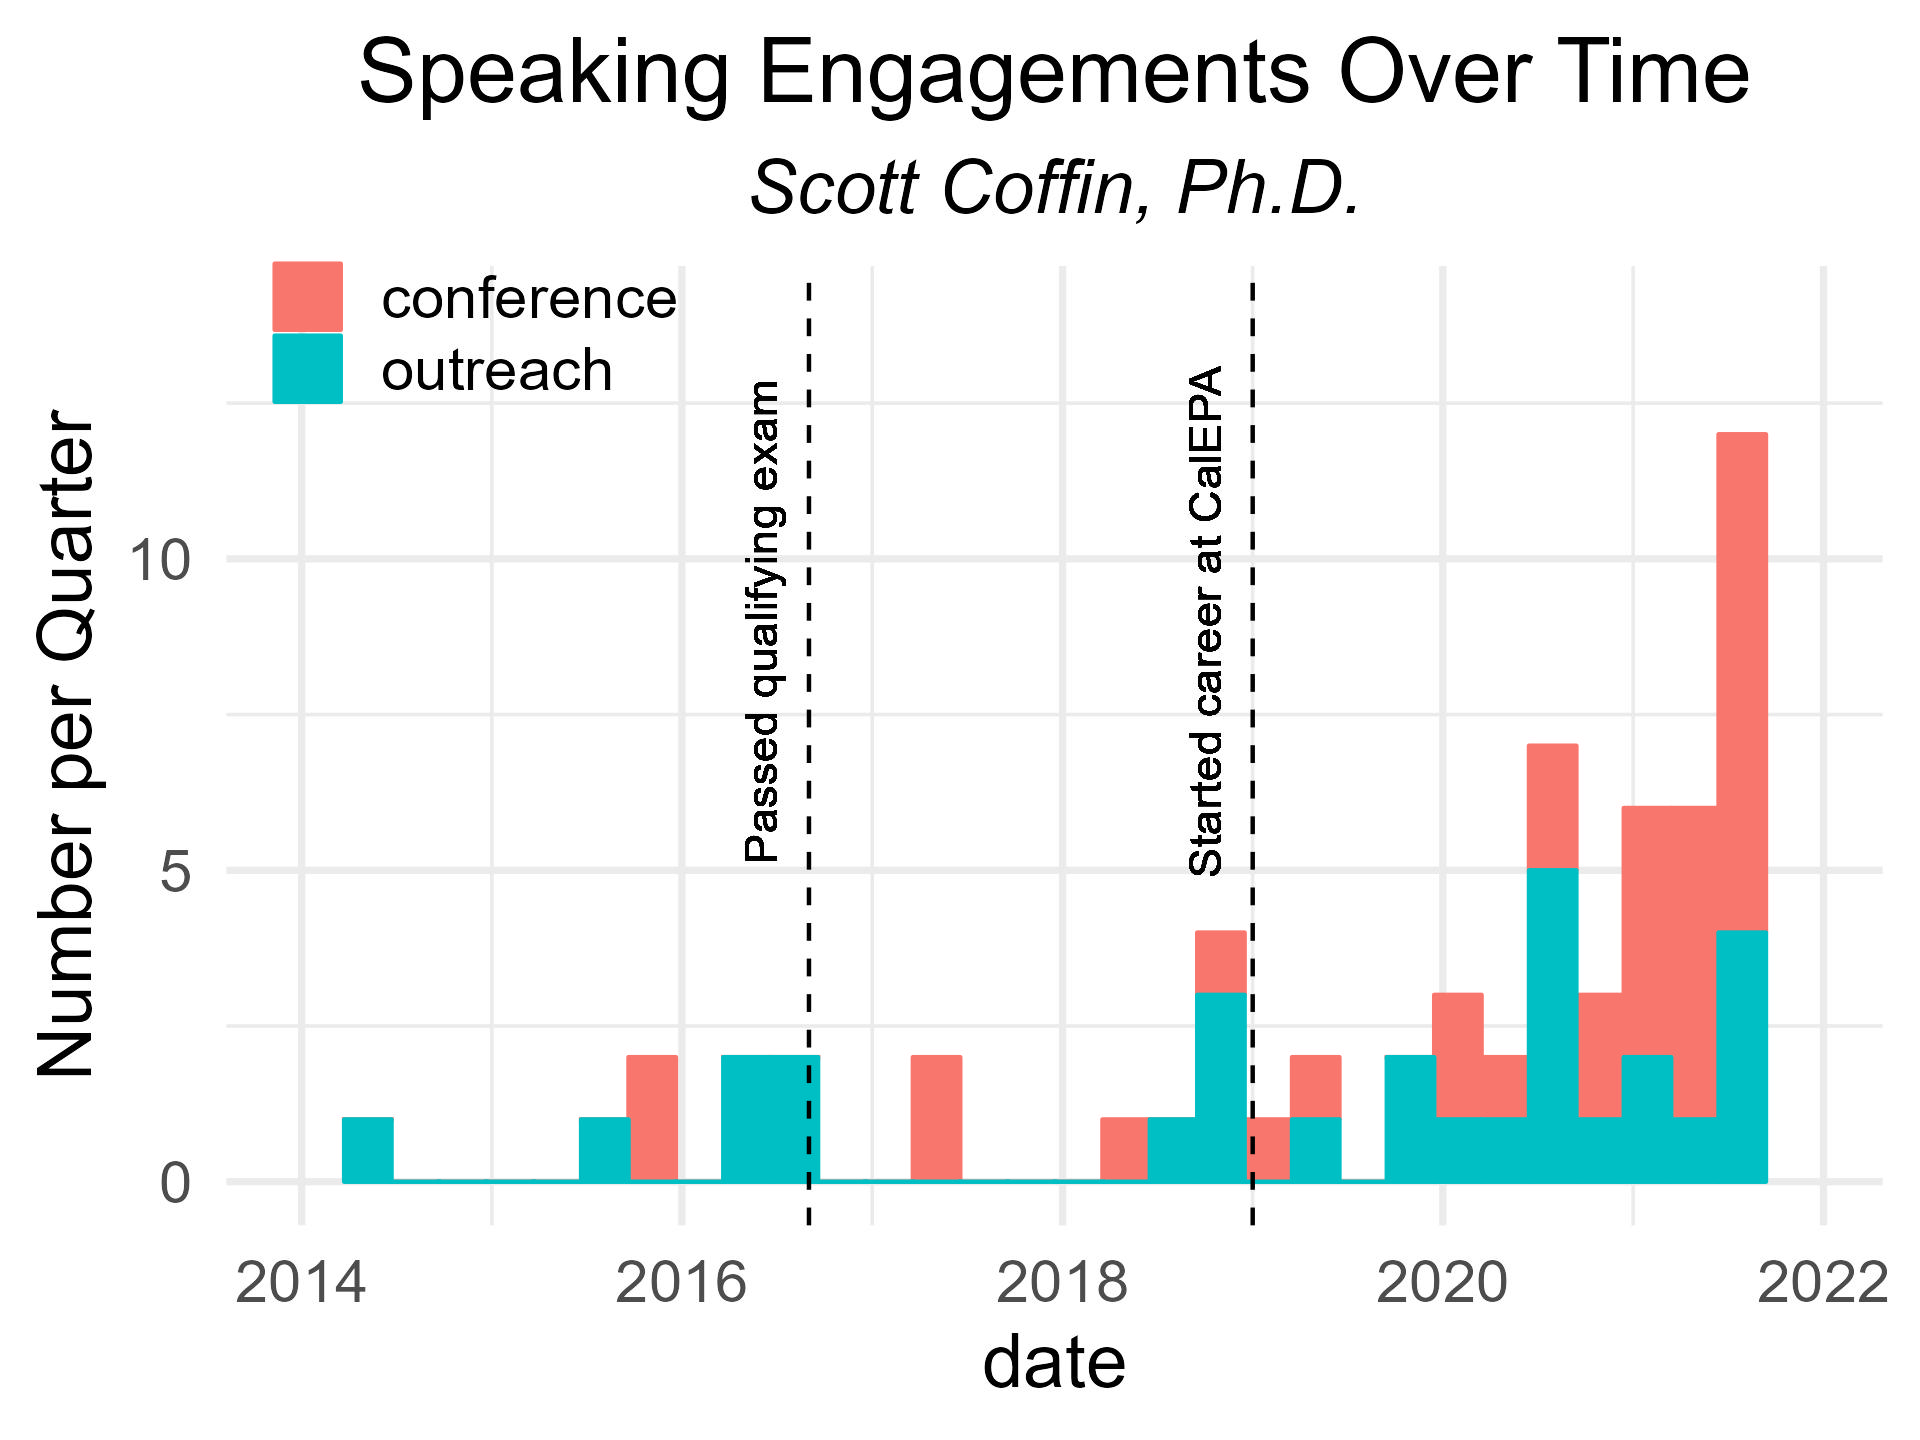
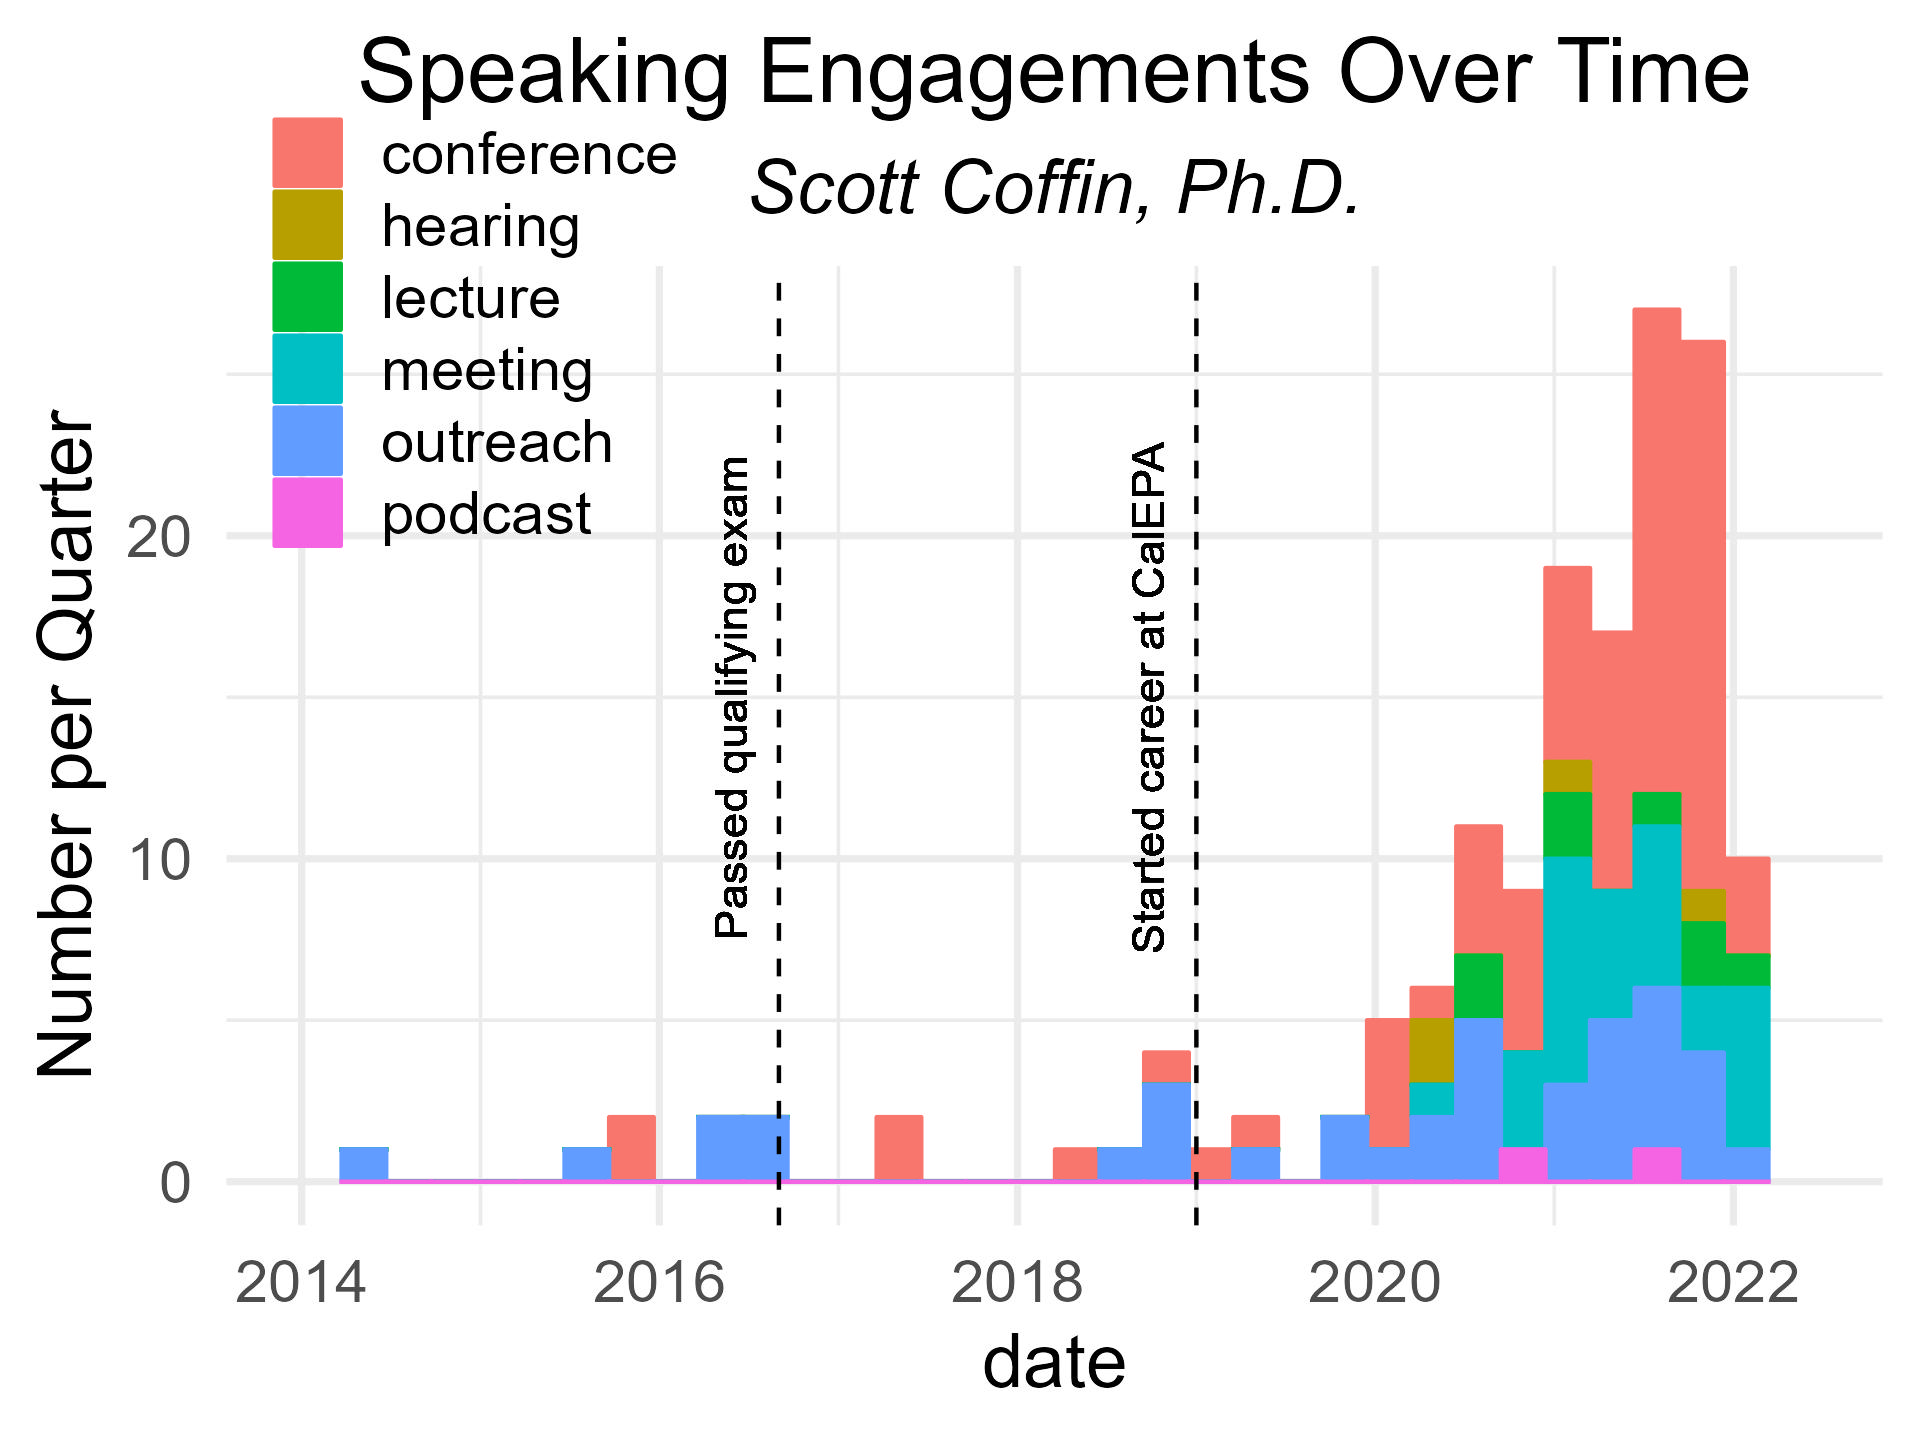
added engagements

diff --git a/_layouts/archive.html b/_layouts/archive.html
@@ -21,8 +21,6 @@ layout: default
     {% unless page.header.overlay_color or page.header.overlay_image %}
       <h1 class="page__title">{{ page.title }}</h1>
     {% endunless %}
-     <section class="page__content" itemprop="text">
     {{ content }}
-     </section>
   </div>
 </div>

diff --git a/Media.md b/Media.md
@@ -8,6 +8,12 @@ header:
   overlay_filter: 0.5 #opacity
 ---
 
+## Overview
+
+The following stacked barplot is a summary of the talks I have given since I started counting in 2014. Total = 157 as of April 27, 2022.
+
+![Speaking Engagements](assets/engagements.jpeg){:height="300px" width="300px"}
+
 ## Scott Coffin in the Media
 The following is a **non-exhaustive** list of recent media highlighting my work. This includes recorded presentations from workshops as well as interviews and articles.
 
